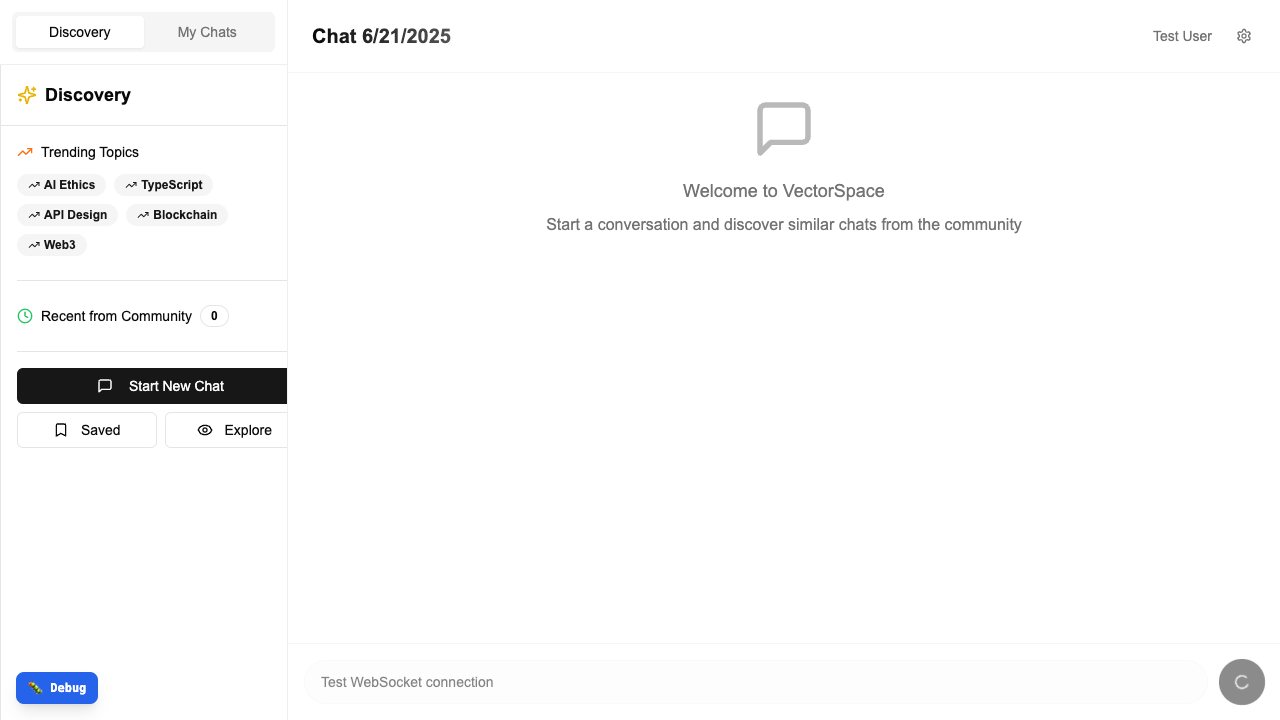
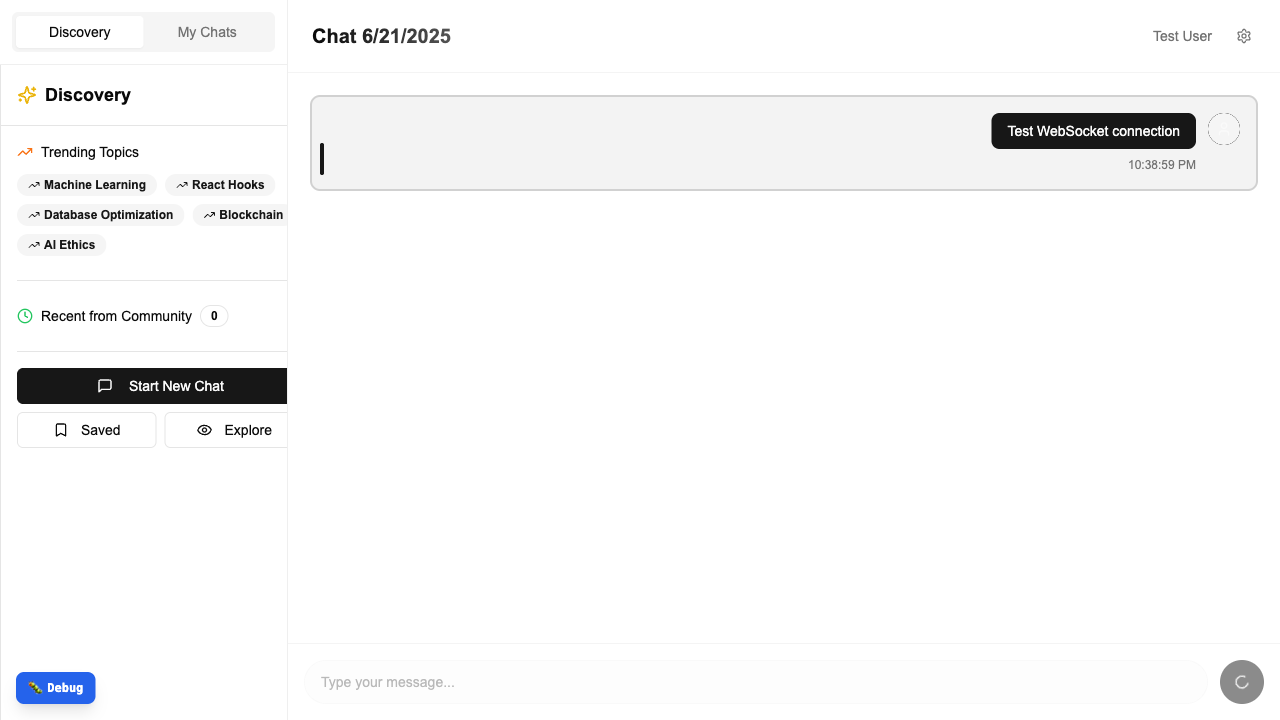
Update WebSocket implementation and testing infrastructure
- Remove react-use-websocket dependency and revert to native WebSocket
- Fix WebSocket connection handling in useWebSocket hook
- Update API client configuration for better error handling
- Enhance HomePage with improved WebSocket debugging
- Update E2E tests for WebSocket chat functionality
- Add WebSocket debugging screenshot for reference

🤖 Generated with [Claude Code](https://claude.ai/code)

diff --git a/frontend/src/pages/HomePage.tsx b/frontend/src/pages/HomePage.tsx
@@ -41,6 +41,7 @@ export default function HomePage() {
   const [isSidebarOpen, setIsSidebarOpen] = useState(false);
   const [error, setError] = useState<string | null>(null);
   const [activeConversationId, setActiveConversationId] = useState<string | null>(null);
+  const [pendingMessage, setPendingMessage] = useState<string | null>(null);
   const messagesEndRef = useRef<HTMLDivElement>(null);
   const presenceUpdateHandlerRef = useRef<((message: any) => void) | null>(null);
   
@@ -48,11 +49,21 @@ export default function HomePage() {
   const { getMessageViewers, handlePresenceUpdate } = usePresence(currentConversation?.id?.toString() || null);
 
   // WebSocket connection for real-time chat
-  const wsUrl = activeConversationId ? apiClient.getWebSocketUrl(activeConversationId) : null;
-  const { sendMessage: wsSendMessage, isConnected, connectionStatus } = useWebSocket(wsUrl, {
+  const wsUrl = activeConversationId ? (() => {
+    try {
+      return apiClient.getWebSocketUrl(activeConversationId);
+    } catch (error) {
+      console.error('❌ Failed to generate WebSocket URL:', error);
+      setError('Authentication error: Please refresh the page');
+      return null;
+    }
+  })() : null;
+  const { sendMessage: wsSendMessage, isConnected, connectionStatus, connect: wsConnect, disconnect: wsDisconnect, wsRef } = useWebSocket(wsUrl, {
     onMessage: (message) => {
+      console.log('📩 WebSocket message received:', message);
       if (message.type === 'new_message') {
         const msgData = message.message;
+        console.log('📝 Processing new_message:', msgData);
         if (msgData) {
           const newMessage: Message = {
             id: msgData.id.toString(),
@@ -60,10 +71,15 @@ export default function HomePage() {
             role: msgData.role as 'user' | 'assistant',
             timestamp: msgData.timestamp
           };
+          console.log('✅ Adding message to state:', newMessage);
           setMessages(prev => {
             // Check if message already exists to prevent duplicates
             const exists = prev.some(m => m.id === newMessage.id);
-            if (exists) return prev;
+            if (exists) {
+              console.log('🚫 Message already exists, skipping:', newMessage.id);
+              return prev;
+            }
+            console.log('➕ Adding new message to messages array');
             return [...prev, newMessage];
           });
         }
@@ -119,6 +135,31 @@ export default function HomePage() {
       connectionStatus 
     });
   }, [activeConversationId, wsUrl, isConnected, connectionStatus]);
+
+  // Handle WebSocket connection establishment for message sending
+  useEffect(() => {
+    if (activeConversationId && isConnected && pendingMessage) {
+      console.log('✅ WebSocket connected for conversation:', activeConversationId, 'sending pending message');
+      
+      // Send the pending message
+      const success = wsSendMessage({
+        type: 'send_message',
+        content: pendingMessage,
+        role: 'user'
+      });
+
+      if (success) {
+        console.log('✅ Pending message sent successfully');
+        setPendingMessage(null);
+      } else {
+        console.error('❌ Failed to send pending message');
+        setError('Failed to send message');
+        setIsLoading(false);
+        setInput(pendingMessage); // Restore the message to input
+        setPendingMessage(null);
+      }
+    }
+  }, [activeConversationId, isConnected, pendingMessage, wsSendMessage]);
   
   const {
     containerRef,
@@ -176,18 +217,25 @@ export default function HomePage() {
       
       setCurrentConversation(conversation);
       setActiveConversationId(conversation.id.toString());
-      await sendMessage(conversation.id.toString());
+      
+      // Use the conversation ID directly to avoid race condition
+      const conversationId = conversation.id.toString();
+      
+      // Set the pending message and let useEffect handle sending when connected
+      console.log('💾 Setting pending message for new conversation');
+      setPendingMessage(input);
+      setInput(''); // Clear input immediately
     } catch (error) {
       console.error('Failed to start conversation:', error);
       setError('Failed to start new conversation');
+      setIsLoading(false);
     }
   };
 
   const sendMessage = async (conversationId?: string) => {
-    if (!input.trim()) return;
+    console.log('📨 sendMessage called with:', { conversationId, inputLength: input.trim().length });
     
-    if (!isAuthenticated) {
-      setError('Please sign in to send messages');
+    if (!input.trim() || !isAuthenticated) {
       return;
     }
     
@@ -197,39 +245,25 @@ export default function HomePage() {
       return;
     }
 
-    // Ensure WebSocket is connected to the right conversation
+    // Simply ensure we're connected to the right conversation
     if (activeConversationId !== targetConversationId.toString()) {
       setActiveConversationId(targetConversationId.toString());
-      
-      // Wait for WebSocket to connect (up to 5 seconds)
-      for (let i = 0; i < 50; i++) {
-        await new Promise(resolve => setTimeout(resolve, 100));
-        if (isConnected) break;
-        if (connectionStatus === 'error') {
-          setError('Failed to establish WebSocket connection');
-          return;
-        }
-      }
+      // Give it a moment to connect
+      await new Promise(resolve => setTimeout(resolve, 500));
     }
-    
+
+    // Simple connection check
     if (!isConnected) {
-      console.log('WebSocket connection debug:', { 
-        isConnected, 
-        connectionStatus, 
-        wsUrl, 
-        activeConversationId 
-      });
-      setError(`Connection not established (${connectionStatus}). Please try again.`);
+      setError('Connection not ready. Please try again.');
       return;
     }
-    
-    // Don't add message to local state - let WebSocket handle it to prevent duplication
+
+    // Send message immediately
     const messageContent = input;
     setInput('');
     setIsLoading(true);
     setError(null);
-    
-    // Send the user message via WebSocket
+
     const success = wsSendMessage({
       type: 'send_message',
       content: messageContent,
@@ -239,15 +273,18 @@ export default function HomePage() {
     if (!success) {
       setError('Failed to send message');
       setIsLoading(false);
-      setInput(messageContent); // Restore input on failure
+      setInput(messageContent);
     }
   };
 
   const handleSubmit = async (e: React.FormEvent) => {
     e.preventDefault();
+    console.log('🎯 Form submitted. Current conversation:', currentConversation?.id);
     if (currentConversation) {
+      console.log('📤 Sending message to existing conversation');
       await sendMessage();
     } else {
+      console.log('🆕 Starting new conversation');
       await startNewConversation();
     }
   };

diff --git a/frontend/src/hooks/useWebSocket.ts b/frontend/src/hooks/useWebSocket.ts
@@ -58,6 +58,7 @@ export function useWebSocket(url: string | null, options: UseWebSocketOptions = 
       return;
     }
 
+    console.log('🔌 Attempting to connect to WebSocket:', url);
     setConnectionStatus('connecting');
 
     try {
@@ -105,6 +106,7 @@ export function useWebSocket(url: string | null, options: UseWebSocketOptions = 
       };
 
       ws.onerror = (error) => {
+        console.error('🔌 WebSocket error:', error);
         setConnectionStatus('error');
         onError?.(error);
       };
@@ -130,19 +132,48 @@ export function useWebSocket(url: string | null, options: UseWebSocketOptions = 
   };
 
   const sendMessage = (message: any) => {
+    console.log('🔌 useWebSocket sendMessage called with:', message);
+    console.log('🔌 WebSocket state:', { 
+      exists: !!wsRef.current, 
+      readyState: wsRef.current?.readyState,
+      OPEN: WebSocket.OPEN 
+    });
+    
     if (wsRef.current?.readyState === WebSocket.OPEN) {
-      wsRef.current.send(JSON.stringify(message));
-      return true;
+      console.log('🔌 WebSocket is OPEN, sending message...');
+      try {
+        wsRef.current.send(JSON.stringify(message));
+        console.log('🔌 Message sent successfully');
+        return true;
+      } catch (error) {
+        console.error('🔌 Error sending message:', error);
+        return false;
+      }
+    } else {
+      console.log('🔌 WebSocket not ready - readyState:', wsRef.current?.readyState);
+      return false;
     }
-    return false;
   };
 
   useEffect(() => {
+    console.log('🔌 useWebSocket useEffect triggered, url:', url);
+    
+    // Don't reconnect if we're already connected to the same URL
+    if (url && wsRef.current?.url === url && wsRef.current?.readyState === WebSocket.OPEN) {
+      console.log('🔌 Already connected to same URL, skipping reconnection');
+      return;
+    }
+    
     if (url) {
+      console.log('🔌 Connecting to URL:', url);
       connect();
+    } else {
+      console.log('🔌 No URL, disconnecting');
+      disconnect();
     }
 
     return () => {
+      console.log('🔌 useWebSocket cleanup, disconnecting');
       disconnect();
     };
   }, [url]);
@@ -161,5 +192,6 @@ export function useWebSocket(url: string | null, options: UseWebSocketOptions = 
     sendMessage,
     connect,
     disconnect,
+    wsRef, // Expose the ref for debugging
   };
 }

diff --git a/frontend/src/lib/api.ts b/frontend/src/lib/api.ts
@@ -515,7 +515,10 @@ export class ApiClient {
 
   // WebSocket URL helper
   getWebSocketUrl(conversationId: string): string {
+    console.log('🔗 getWebSocketUrl called:', { conversationId, hasToken: !!this.token });
+    
     if (!this.token) {
+      console.error('❌ No authentication token available for WebSocket');
       throw new Error('Authentication token required for WebSocket connection');
     }
     
@@ -534,7 +537,9 @@ export class ApiClient {
       }
     }
     
-    return `${wsBaseUrl}/conversations/${conversationId}?token=${encodeURIComponent(this.token)}`;
+    const finalUrl = `${wsBaseUrl}/conversations/${conversationId}?token=${encodeURIComponent(this.token)}`;
+    console.log('🔗 Generated WebSocket URL:', finalUrl);
+    return finalUrl;
   }
 }
 

diff --git a/frontend/tests/e2e/websocket-chat.spec.ts b/frontend/tests/e2e/websocket-chat.spec.ts
@@ -57,6 +57,12 @@ test.describe('WebSocket Chat Functionality', () => {
     // Click the send button
     await sendButton.click();
     
+    // Wait for either success or stable error state
+    await Promise.race([
+      page.getByText(testMessage).waitFor({ state: 'visible', timeout: 8000 }),
+      page.locator('text="Failed to establish connection"').waitFor({ state: 'hidden', timeout: 8000 })
+    ]);
+    
     // Wait for the message to appear in the chat
     await expect(page.getByText(testMessage)).toBeVisible({ timeout: 10000 });
     
